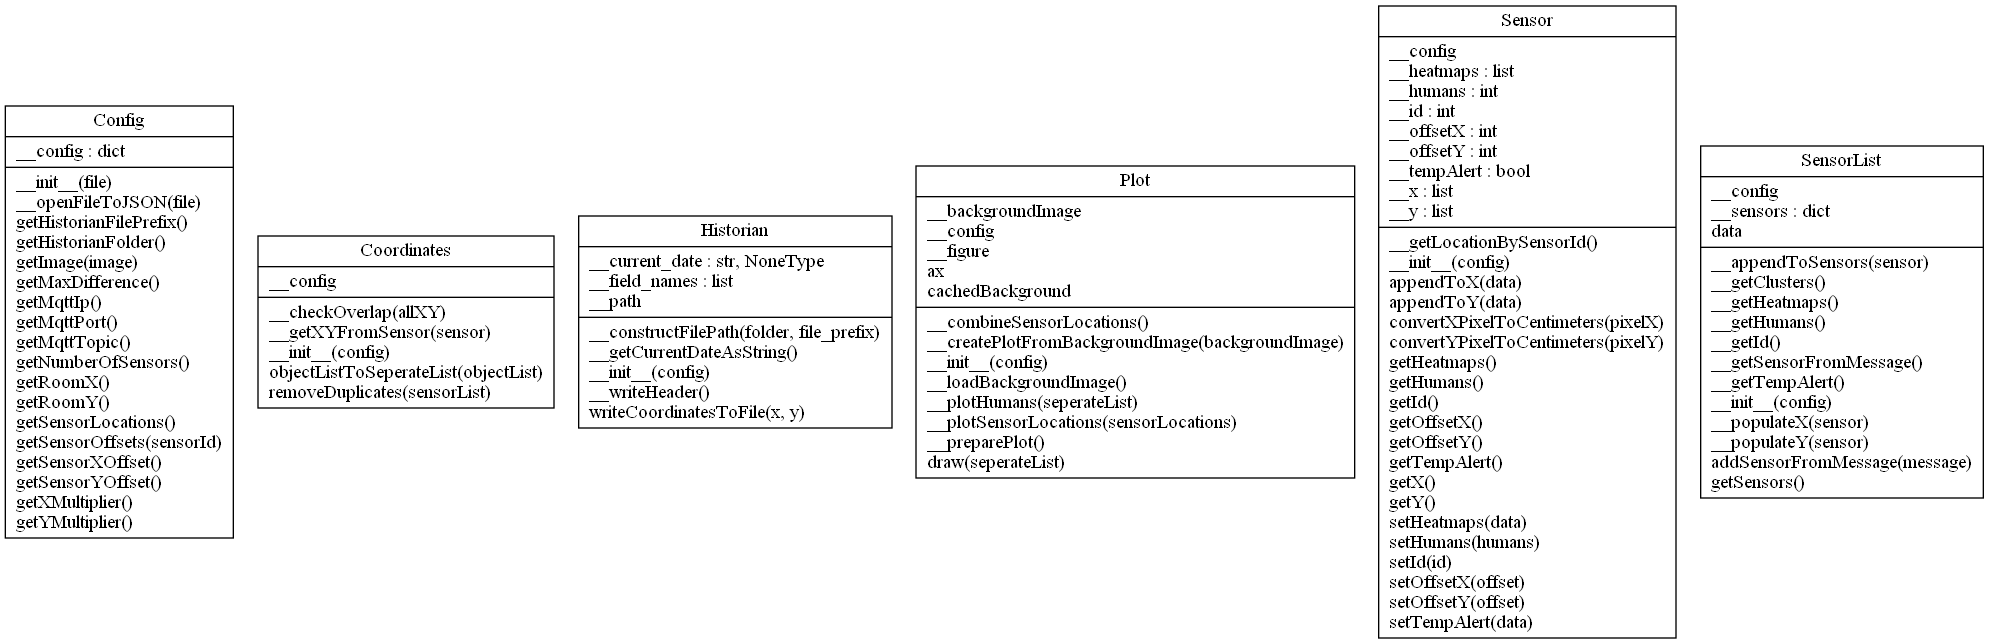
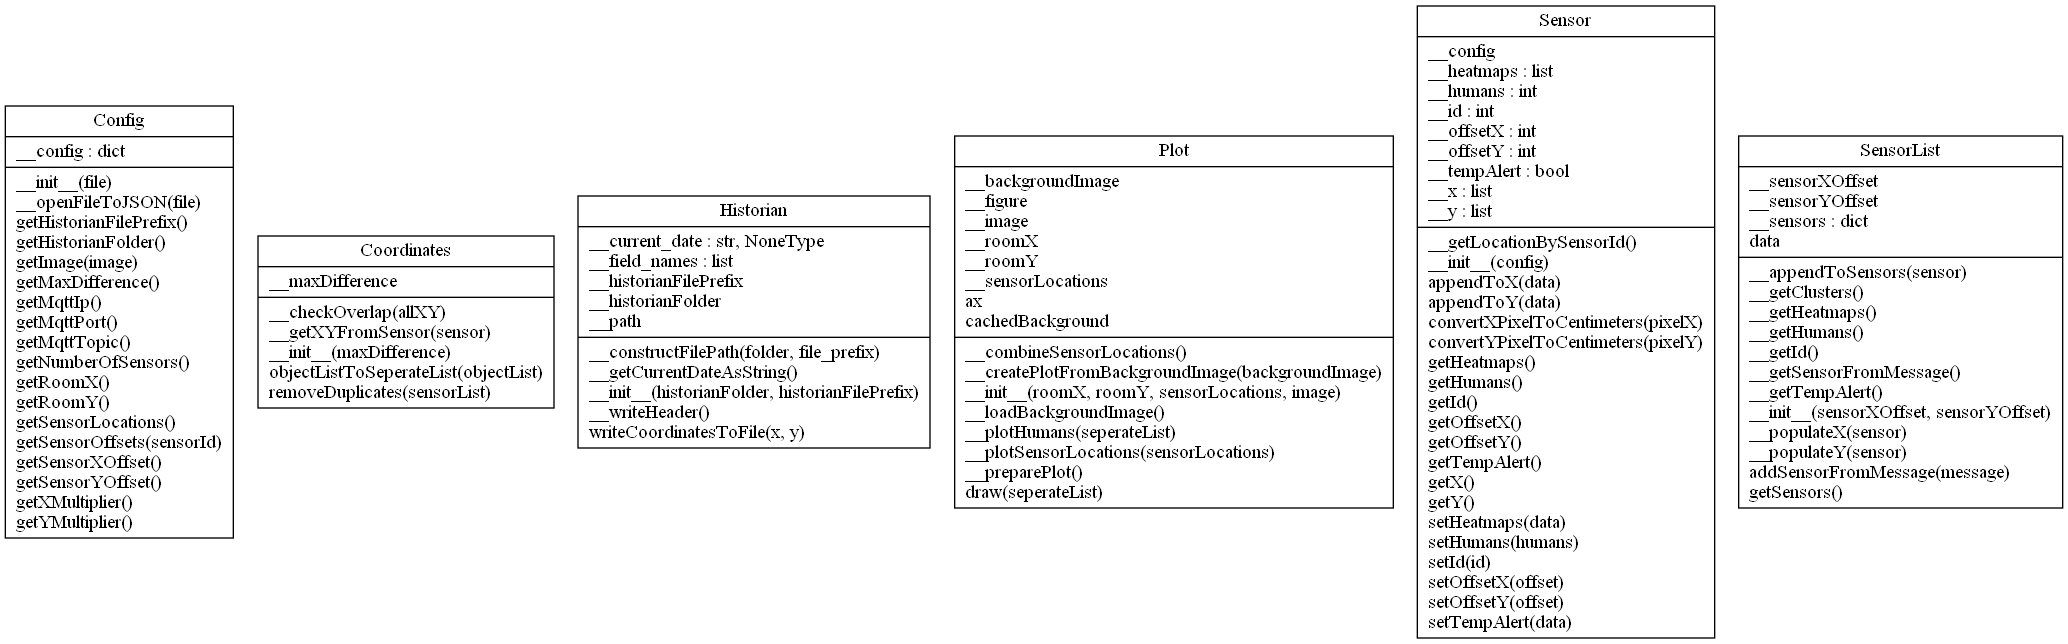
seperate parameters used instead of config

diff --git a/src/Plot.py b/src/Plot.py
@@ -1,22 +1,23 @@
-from Config import Config
 import cv2
 import matplotlib.pyplot as plt
-import Config
 
 class Plot:
-    def __init__(self, config: Config):
-        self.__config: Config = config
+    def __init__(self, roomX, roomY, sensorLocations, image):
+        self.__roomX = roomX
+        self.__roomY = roomY
+        self.__sensorLocations = sensorLocations
+        self.__image = image
         self.__backgroundImage = self.__loadBackgroundImage()
         self.__figure, self.ax = plt.subplots()
         self.__preparePlot()
 
     def __loadBackgroundImage(self):
-        imagePath = self.__config.getImage('room')
+        imagePath = self.__image
         # Read the image
         image = plt.imread(imagePath)
         # Resize the image
         image = cv2.resize(
-            image, (self.__config.getRoomX(), self.__config.getRoomY())
+            image, (self.__roomX, self.__roomY)
         )
 
         return image
@@ -39,10 +40,10 @@ class Plot:
         self.__figure.canvas.flush_events()
 
     def __createPlotFromBackgroundImage(self, backgroundImage):
-        plt.imshow(backgroundImage, extent=[0, self.__config.getRoomX(), 0, self.__config.getRoomY()])
+        plt.imshow(backgroundImage, extent=[0, self.__roomX, 0, self.__roomY])
 
     def __combineSensorLocations(self):
-        locations = self.__config.getSensorLocations()
+        locations = self.__sensorLocations()
         sensorLocations = {
             'x': [],
             'y': []

diff --git a/src/SensorList.py b/src/SensorList.py
@@ -1,10 +1,10 @@
 import json
 from Sensor import Sensor
-import Config
 
 class SensorList:
-    def __init__(self, config: Config):
-        self.__config: Config = config
+    def __init__(self, sensorXOffset, sensorYOffset):
+        self.__sensorXOffset = sensorXOffset
+        self.__sensorYOffset = sensorYOffset
         self.__sensors = {}
     
     def __getTempAlert(self):
@@ -50,8 +50,8 @@ class SensorList:
         sensor.setHumans(self.__getHumans())
         sensor.setHeatmaps(self.__getHeatmaps())
 
-        sensor.setOffsetX(self.__config.getSensorXOffset())
-        sensor.setOffsetY(self.__config.getSensorYOffset())
+        sensor.setOffsetX(self.__sensorXOffset)
+        sensor.setOffsetY(self.__sensorYOffset)
 
         self.__populateX(sensor)
         self.__populateY(sensor)

diff --git a/src/__init__.py b/src/__init__.py
@@ -1,5 +1,4 @@
 from Config import Config
-from Sensor import Sensor
 from Plot import Plot
 from SensorList import SensorList
 from Coordinates import Coordinates
@@ -10,10 +9,13 @@ import paho.mqtt.client as mqtt
 sensors = {}
 
 config = Config('config.json')
-plot = Plot(config)
-sensorList = SensorList(config)
-coordinates = Coordinates(config)
-historian = Historian(config)
+plot = Plot(config.getRoomX(), 
+            config.getRoomY(), 
+            config.getSensorLocations(), 
+            config.getImage('room'))
+sensorList = SensorList(config.getSensorXOffset(), config.getSensorOffsets())
+coordinates = Coordinates(config.getMaxDifference())
+historian = Historian(config.getHistorianFolder(), config.getHistorianFilePrefix())
 
 
 def on_connect(client, userdata, flags, rc):

diff --git a/src/Coordinates.py b/src/Coordinates.py
@@ -1,10 +1,9 @@
-import Config
 import SensorList
 import Sensor
 
 class Coordinates:
-    def __init__(self, config: Config):
-        self.__config: Config = config
+    def __init__(self, maxDifference):
+        self.__maxDifference = maxDifference
 
     def removeDuplicates(self, sensorList: SensorList):
         allXY = []
@@ -26,7 +25,7 @@ class Coordinates:
         return tempXY
 
     def __checkOverlap(self, allXY):
-        maxDifference = self.__config.getMaxDifference()
+        maxDifference = self.__maxDifference
         for coordinate in allXY:
             tempAllXY = allXY.copy()
             tempAllXY.remove(coordinate) # Remove itself

diff --git a/src/Historian.py b/src/Historian.py
@@ -2,11 +2,12 @@ from datetime import date
 import time
 import csv
 import os
-import Config
 
 class Historian:
-    def __init__(self, config: Config):
-        self.__path = self.__constructFilePath(config.getHistorianFolder(), config.getHistorianFilePrefix())
+    def __init__(self, historianFolder, historianFilePrefix):
+        self.__historianFolder = historianFolder
+        self.__historianFilePrefix = historianFilePrefix
+        self.__path = self.__constructFilePath(self.__historianFolder, self.__historianFilePrefix)
         self.__current_date = None
         self.__field_names = ['x', 'y', 'timestamp']
 

diff --git a/src/Sensor.py b/src/Sensor.py
@@ -1,8 +1,6 @@
-import Config
-
 class Sensor:
-    def __init__(self, config: Config):
-        self.__config: Config = config
+    def __init__(self, config):
+        self.__config = config
         self.__id = 0
         self.__offsetX = 0
         self.__offsetY = 0
